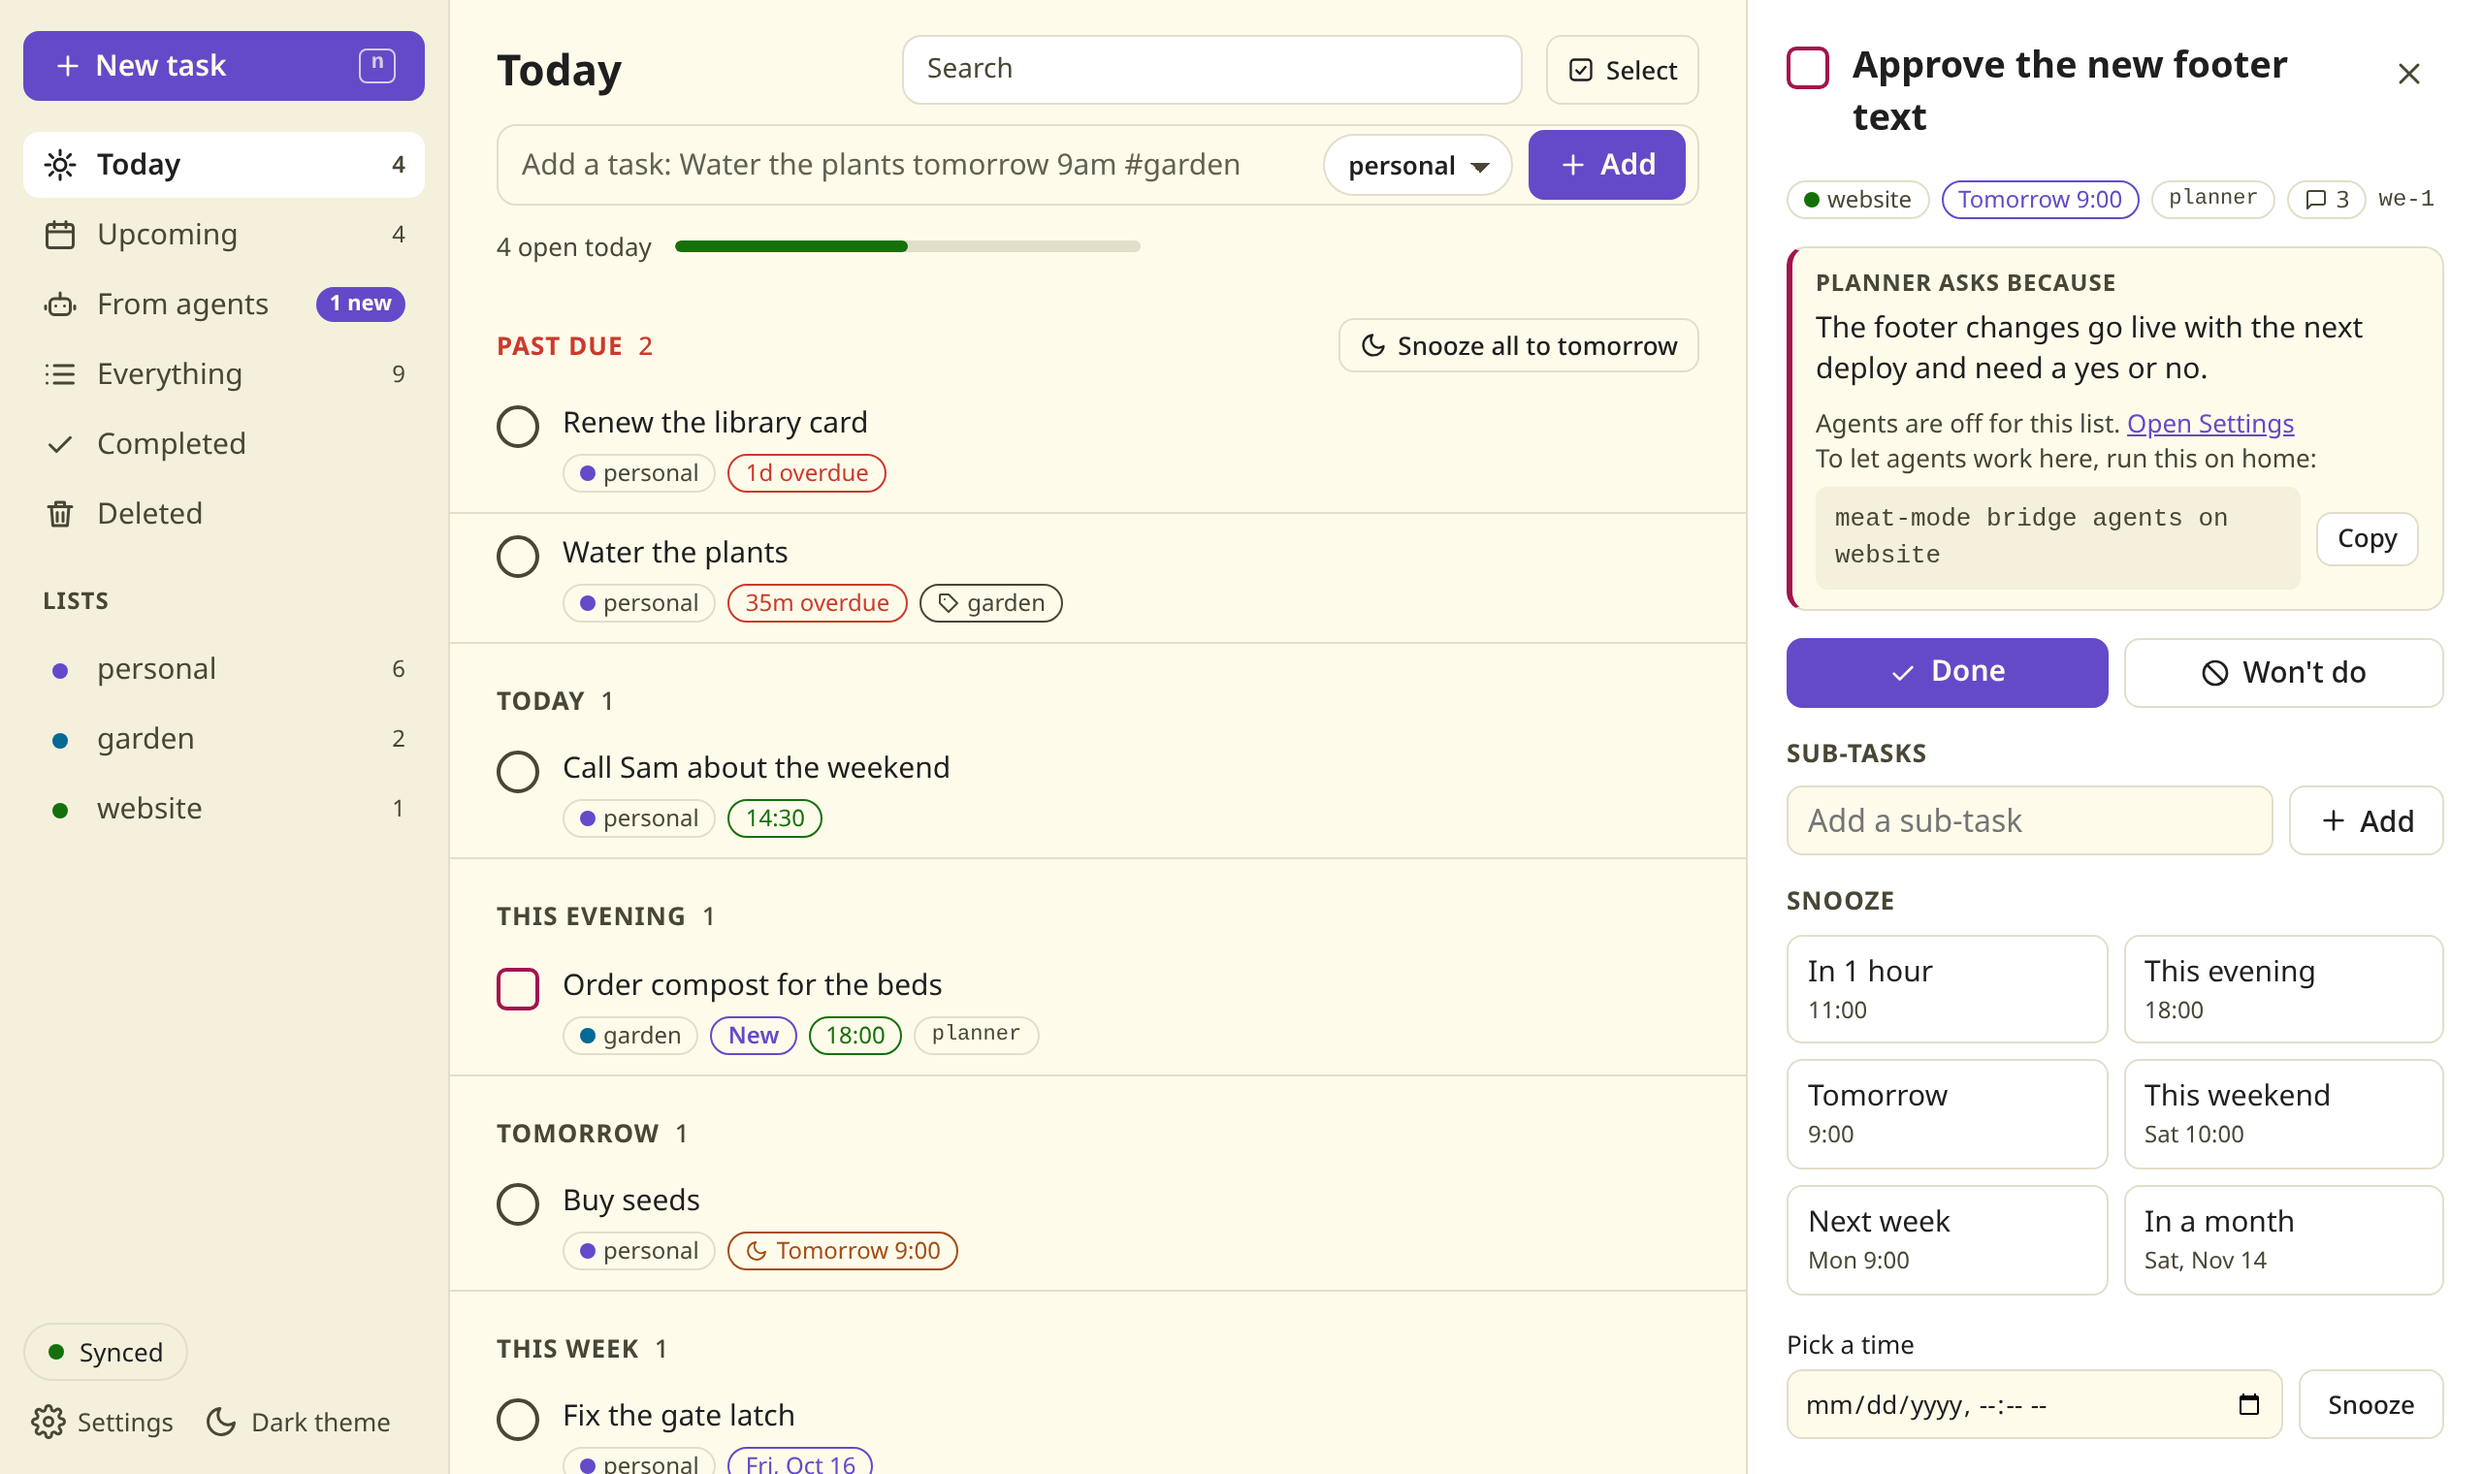
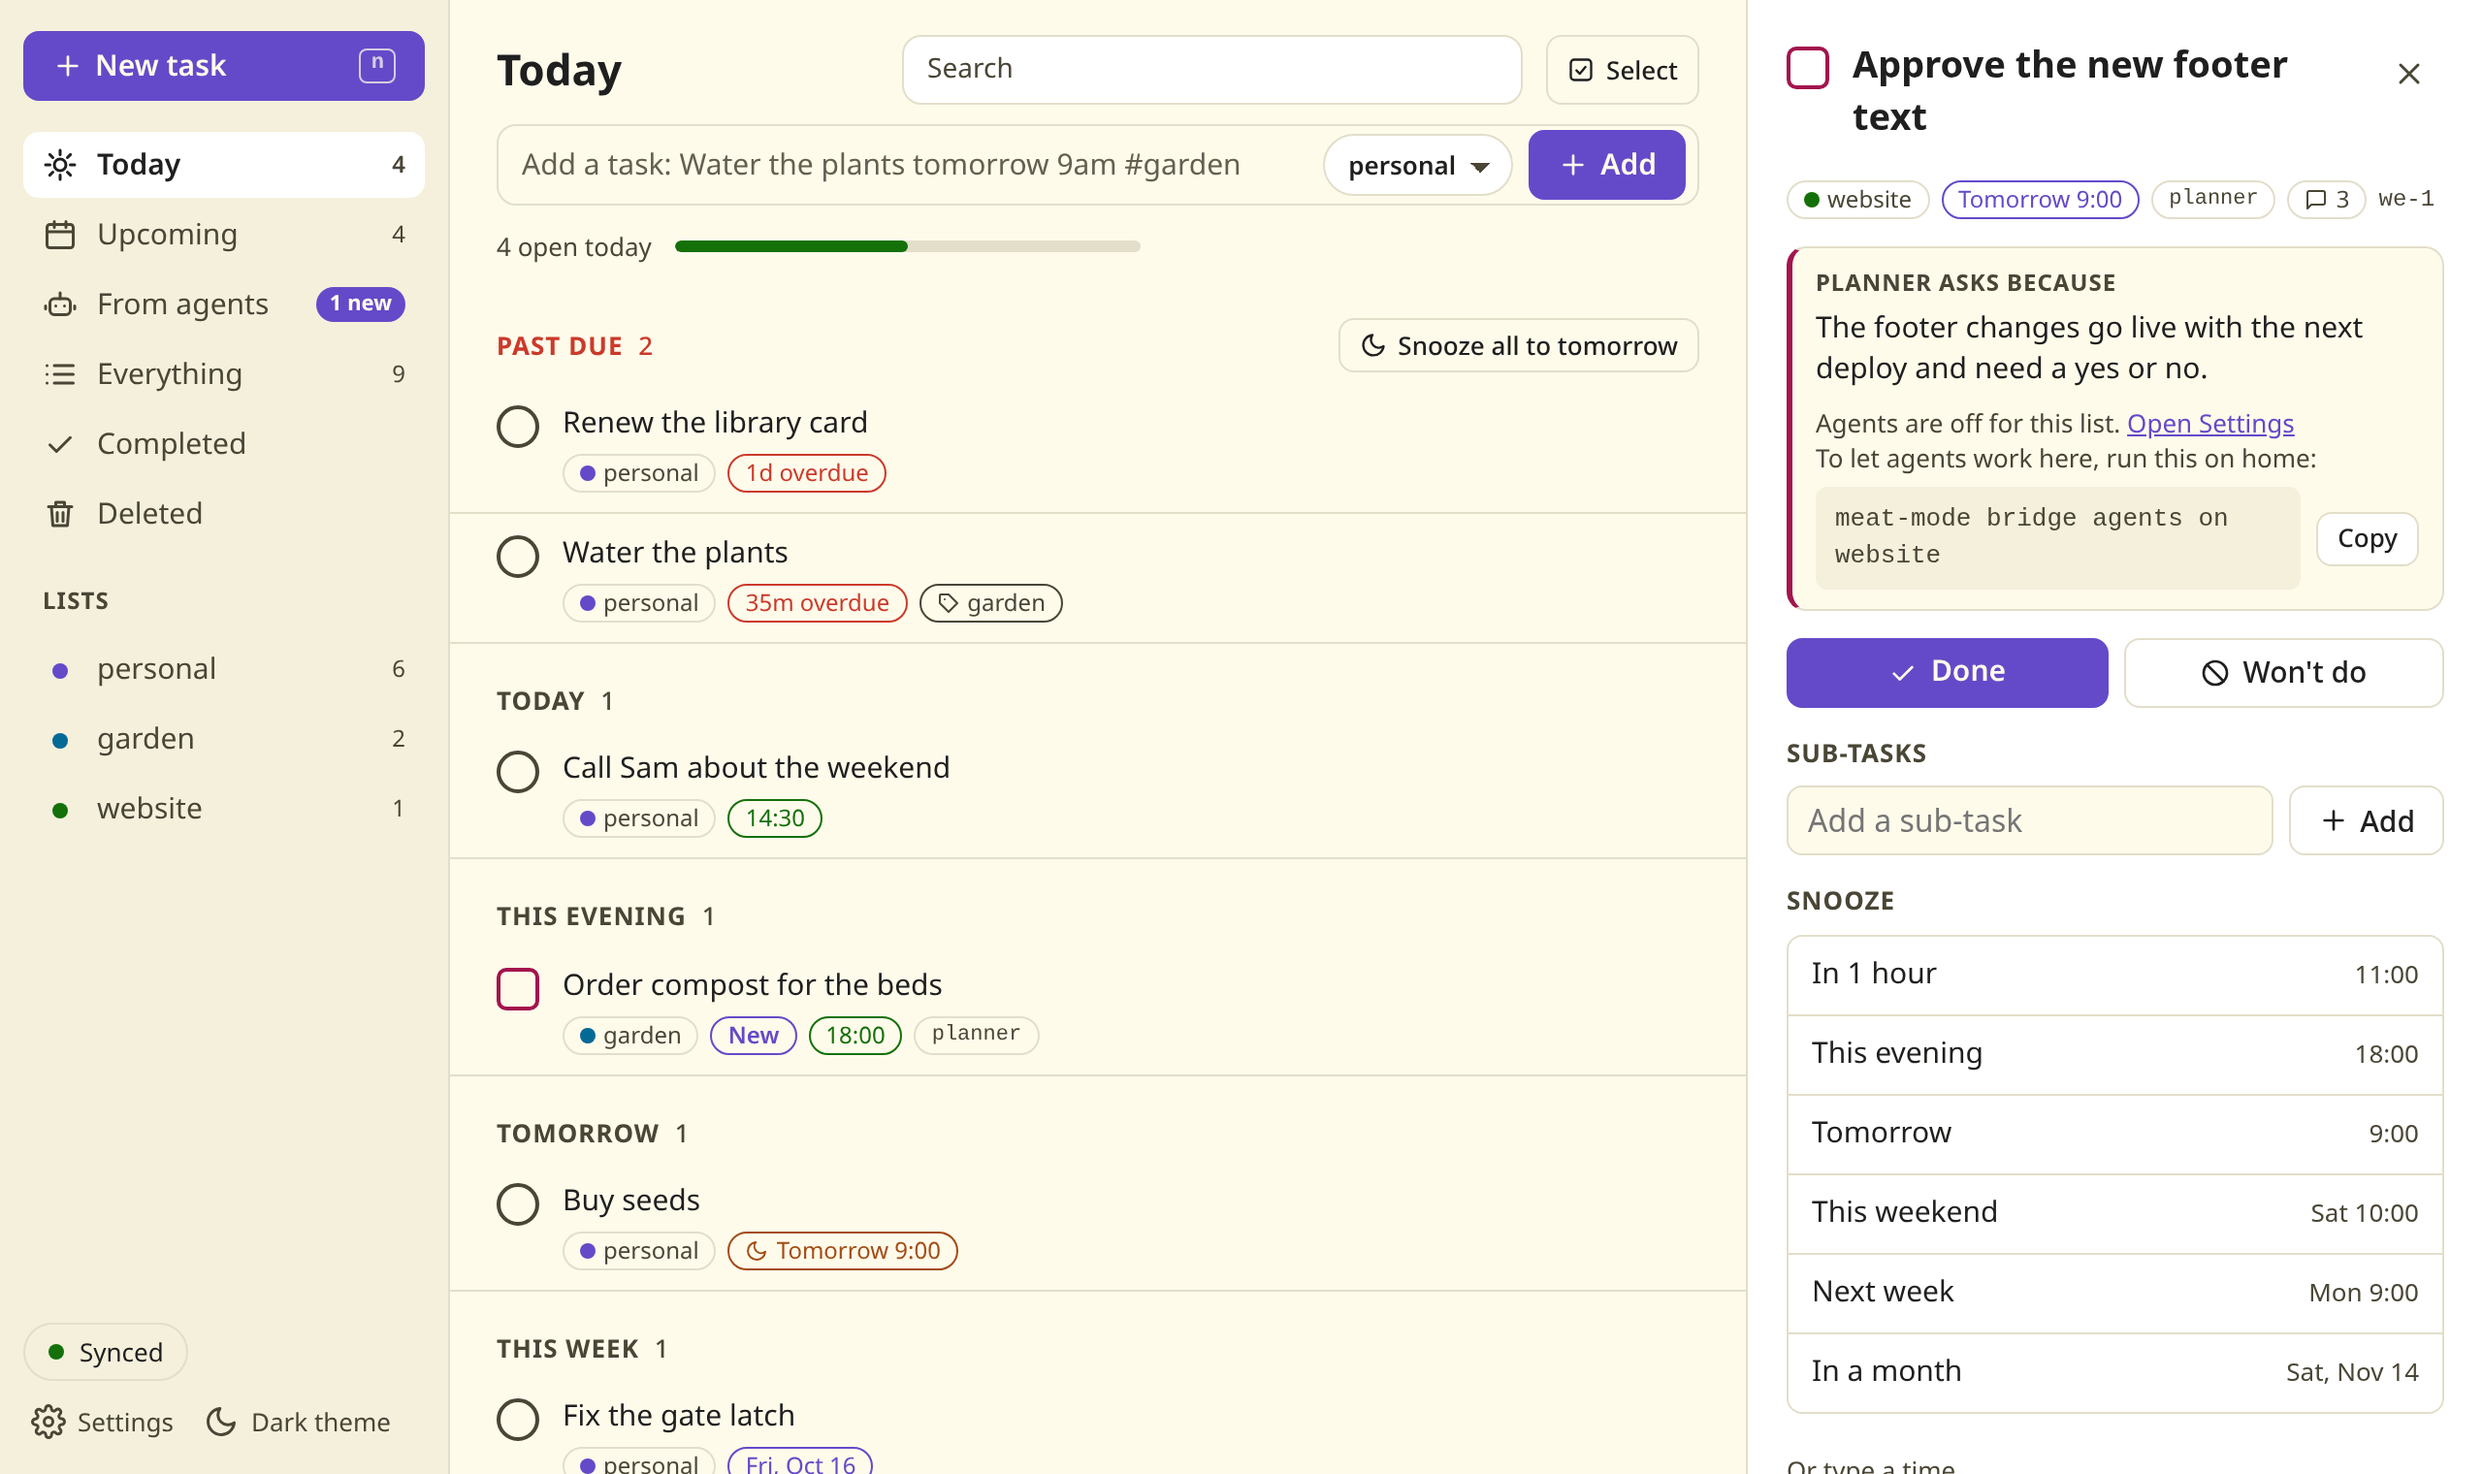
Retake the README detail screenshots with the new snooze list

diff --git a/README.md b/README.md
@@ -16,7 +16,7 @@ Style guide for this page.
 
 **One to-do list for the things only you can do: your own to-dos and the tasks your AI agents hand you, on your phone and your desktop.**
 
-![The Today list on a desktop: personal to-dos such as "Water the plants", with a garden tag, and "Call Sam about the weekend" sit beside a task from an agent, "Order compost for the beds". The agent's task "Approve the new footer text" is open on the right with the agent's reason, the command that lets agents work in that repo, Done and Won't do buttons, a sub-task box and snooze choices.](docs/images/desktop-today-detail.png)
+![The Today list on a desktop: personal to-dos such as "Water the plants", with a garden tag, and "Call Sam about the weekend" sit beside a task from an agent, "Order compost for the beds". The agent's task "Approve the new footer text" is open on the right with the agent's reason, the command that lets agents work in that repo, Done and Won't do buttons, a sub-task box, and a Snooze list with one row per choice, such as "In 1 hour 11:00" and "Tomorrow 9:00".](docs/images/desktop-today-detail.png)
 
 Your AI agents keep their work in an issue tracker that lives in your code repos, such as [beads](https://github.com/gastownhall/beads). When an agent needs you for something it cannot do itself (approve a text, sign in somewhere, make a call), it files a task labelled `human`. Meat Mode gathers those tasks from every repo and every machine into one list, next to your own to-dos. You tick them off, snooze them, say no, or reply with a note, and your answer goes back to the agent in its tracker. In the repos you allow, one tap also wakes an agent to work on a task, and you watch how it goes on the task itself.
 
@@ -53,7 +53,7 @@ Each task from an agent shows why the agent needs you, which project it came fro
 
 <p>
   <img src="docs/images/phone-today-dark.png" width="300" alt="The Today list on a phone in the dark theme, grouped into Past due, Today, This evening, Tomorrow and This week. &quot;Call Sam about the weekend&quot; carries a weekend tag, the agent's task &quot;Order compost for the beds&quot; has a New badge, and a tab bar with Today, Upcoming, Agents and Browse sits at the bottom.">
-  <img src="docs/images/phone-detail.png" width="300" alt="The to-do &quot;Water the plants&quot; open on a phone in the light theme: it repeats every day and carries a garden tag, has a checklist with one of two entries ticked, and offers Done, Edit and Delete, a sub-task box, Files with Attach a file and Take a photo, and snooze choices.">
+  <img src="docs/images/phone-detail.png" width="300" alt="The to-do &quot;Water the plants&quot; open on a phone in the light theme: it repeats every day and carries a garden tag, has a checklist with one of two entries ticked, and offers Done, Edit and Delete, a sub-task box, Files with Attach a file and Take a photo, and the start of the Snooze list: In 1 hour at 11:00, This evening at 18:00 and Tomorrow at 9:00.">
 </p>
 
 ### Hand a task to an agent
